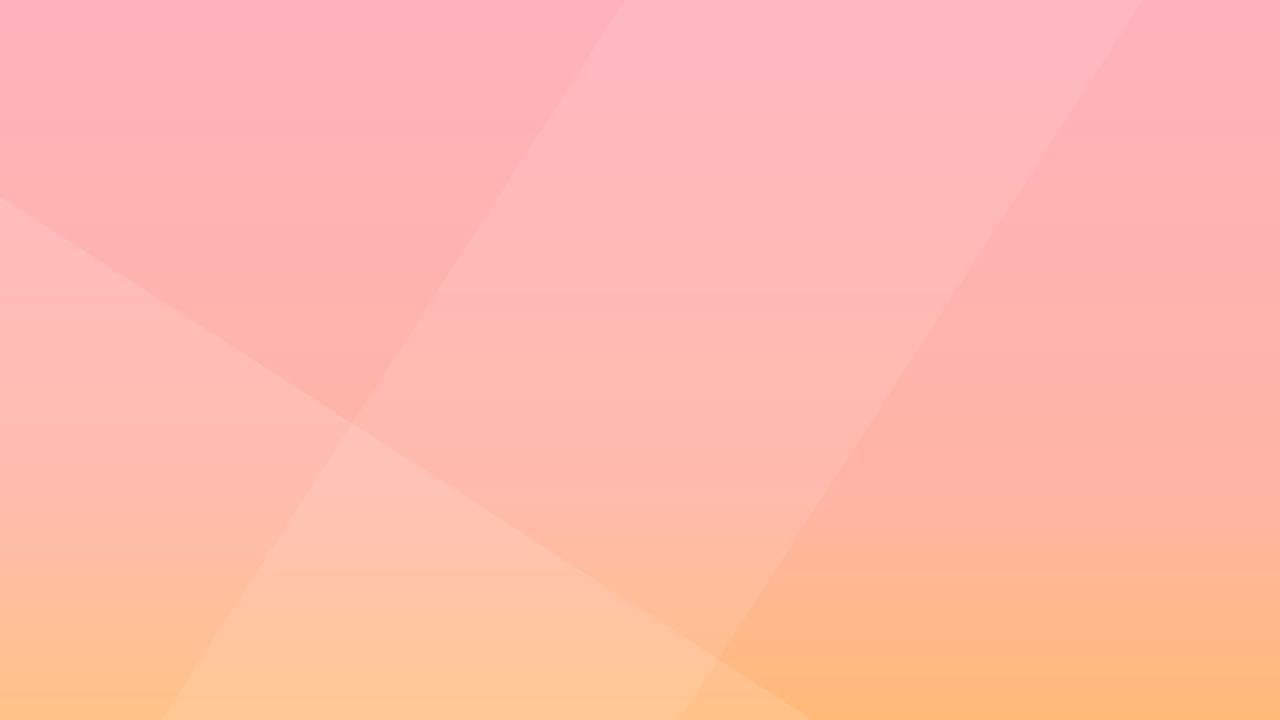
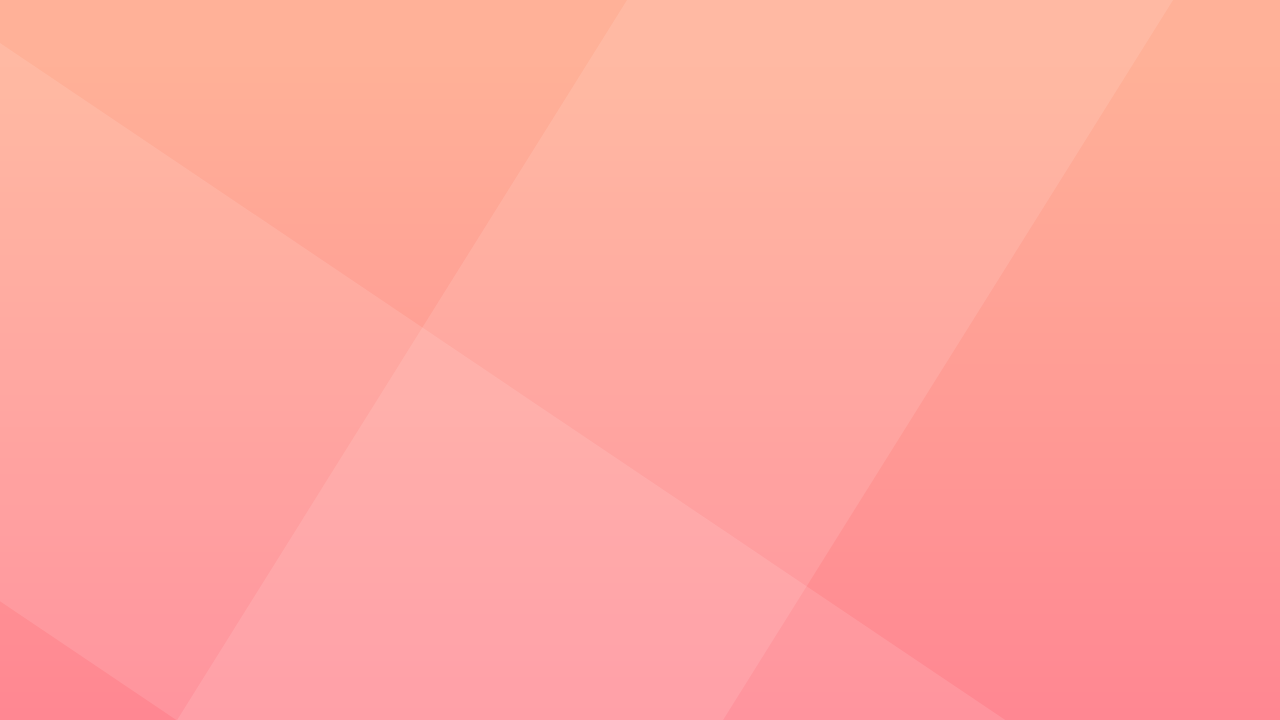
CSS : Home

diff --git a/style.css b/style.css
@@ -6,6 +6,7 @@
   --color-light-white: #eeeeee;
   --color-dark-white: #bdbdbd;
   --color-pink: #fe918d;
+  --color-light-pink: #ffcdd2;
   --color-dark-pink: #ff6863;
   --color-dark-grey: #4d4d4d;
   --color-grey: #616161;
@@ -13,6 +14,7 @@
   --color-blue: #73aace;
   --color-yellow: #fff7d1;
   --color-orange: #feb546;
+  --color-light-orange: #ffab91;
   --color-black: #000000;
 
   /* Font size */
@@ -54,6 +56,12 @@ ul {
   padding-left: 0;
 }
 
+button {
+  background: transparent;
+  cursor: pointer;
+  border: none;
+  outline: none;
+}
 /* Typography */
 
 h1 {
@@ -89,7 +97,7 @@ p {
 #navbar {
   display: flex;
   justify-content: space-between;
-  background: var(--color-pink);
+  background: var(--color-light-orange);
   align-items: center;
   color: var(--color-white);
   padding: 16px;
@@ -122,33 +130,29 @@ p {
 /* home */
 
 #home {
-  width: 95%;
-  background: url(imgs/home_img.png) no-repeat;
-  background-size: cover;
-  margin: auto;
-  display: flex;
-  flex-direction: column;
-  align-items: center;
+  background: url(imgs/home_img.png) center/cover no-repeat;
+  text-align: center;
+  padding: 40px;
 }
 
 .home__avatar {
-  width: 120px;
-  height: 120px;
+  width: 250px;
+  height: 250px;
   border-radius: 50%;
-  border: 1px solid white;
+  border: 2px solid var(--color-light-white);
 }
 
 .home__title,
 .home__comment {
   color: var(--color-white);
-  text-align: center;
 }
 
 .home__btn {
-  background: transparent;
   border: 2px solid var(--color-white);
-  outline: none;
   color: var(--color-white);
-  margin: 4px 0;
-  cursor: pointer;
+  margin: 24px;
+  padding: 8px 12px;
+  font-size: var(--font-regular);
+  font-weight: var(--weight-bold);
+  border-radius: var(--size-border-radius);
 }
